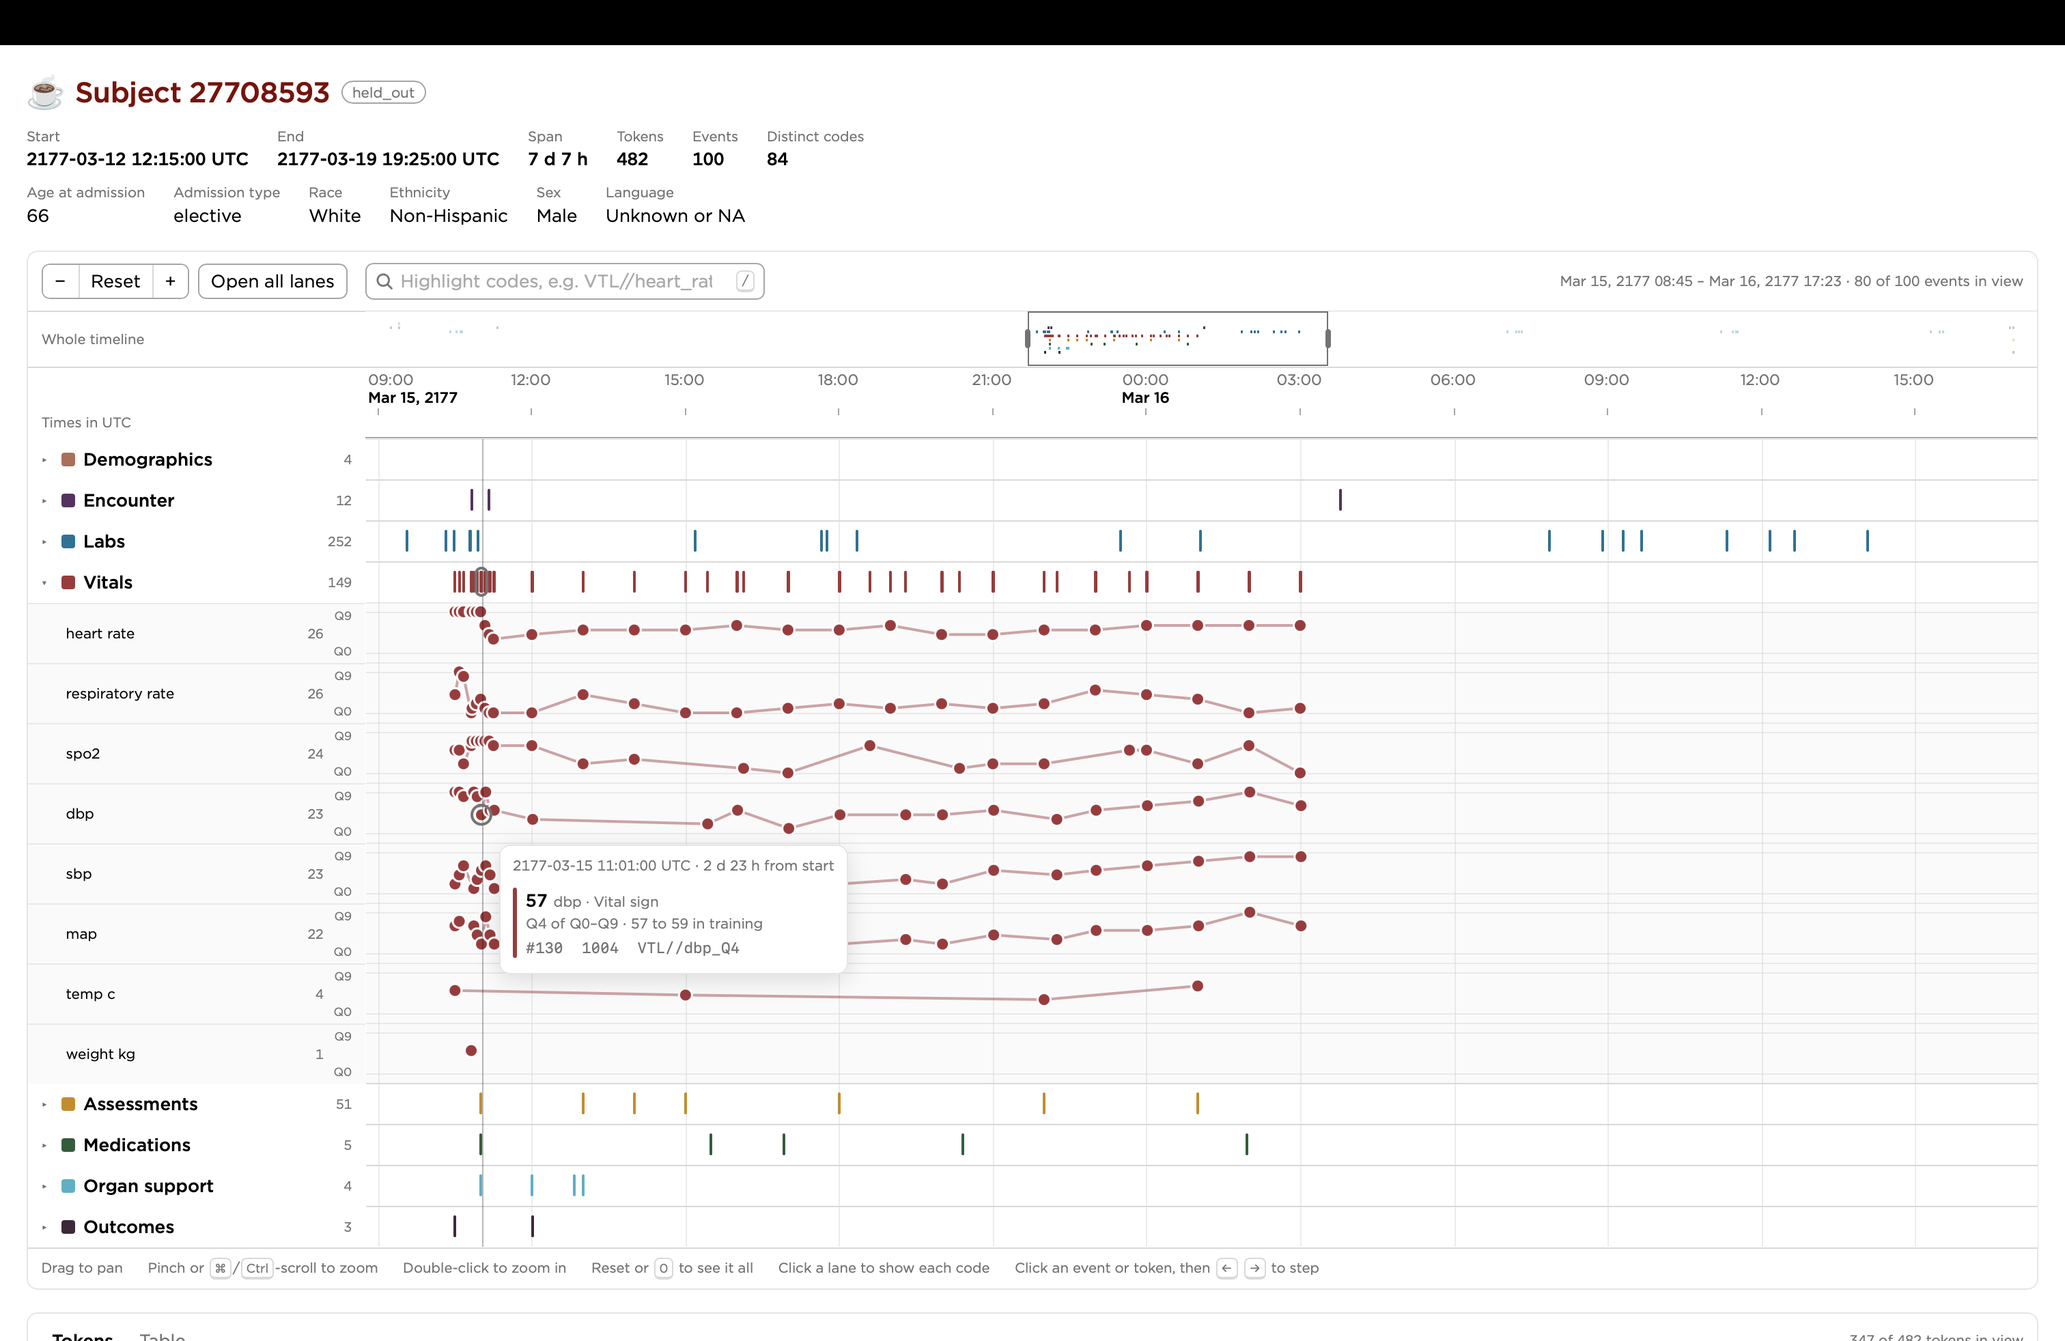
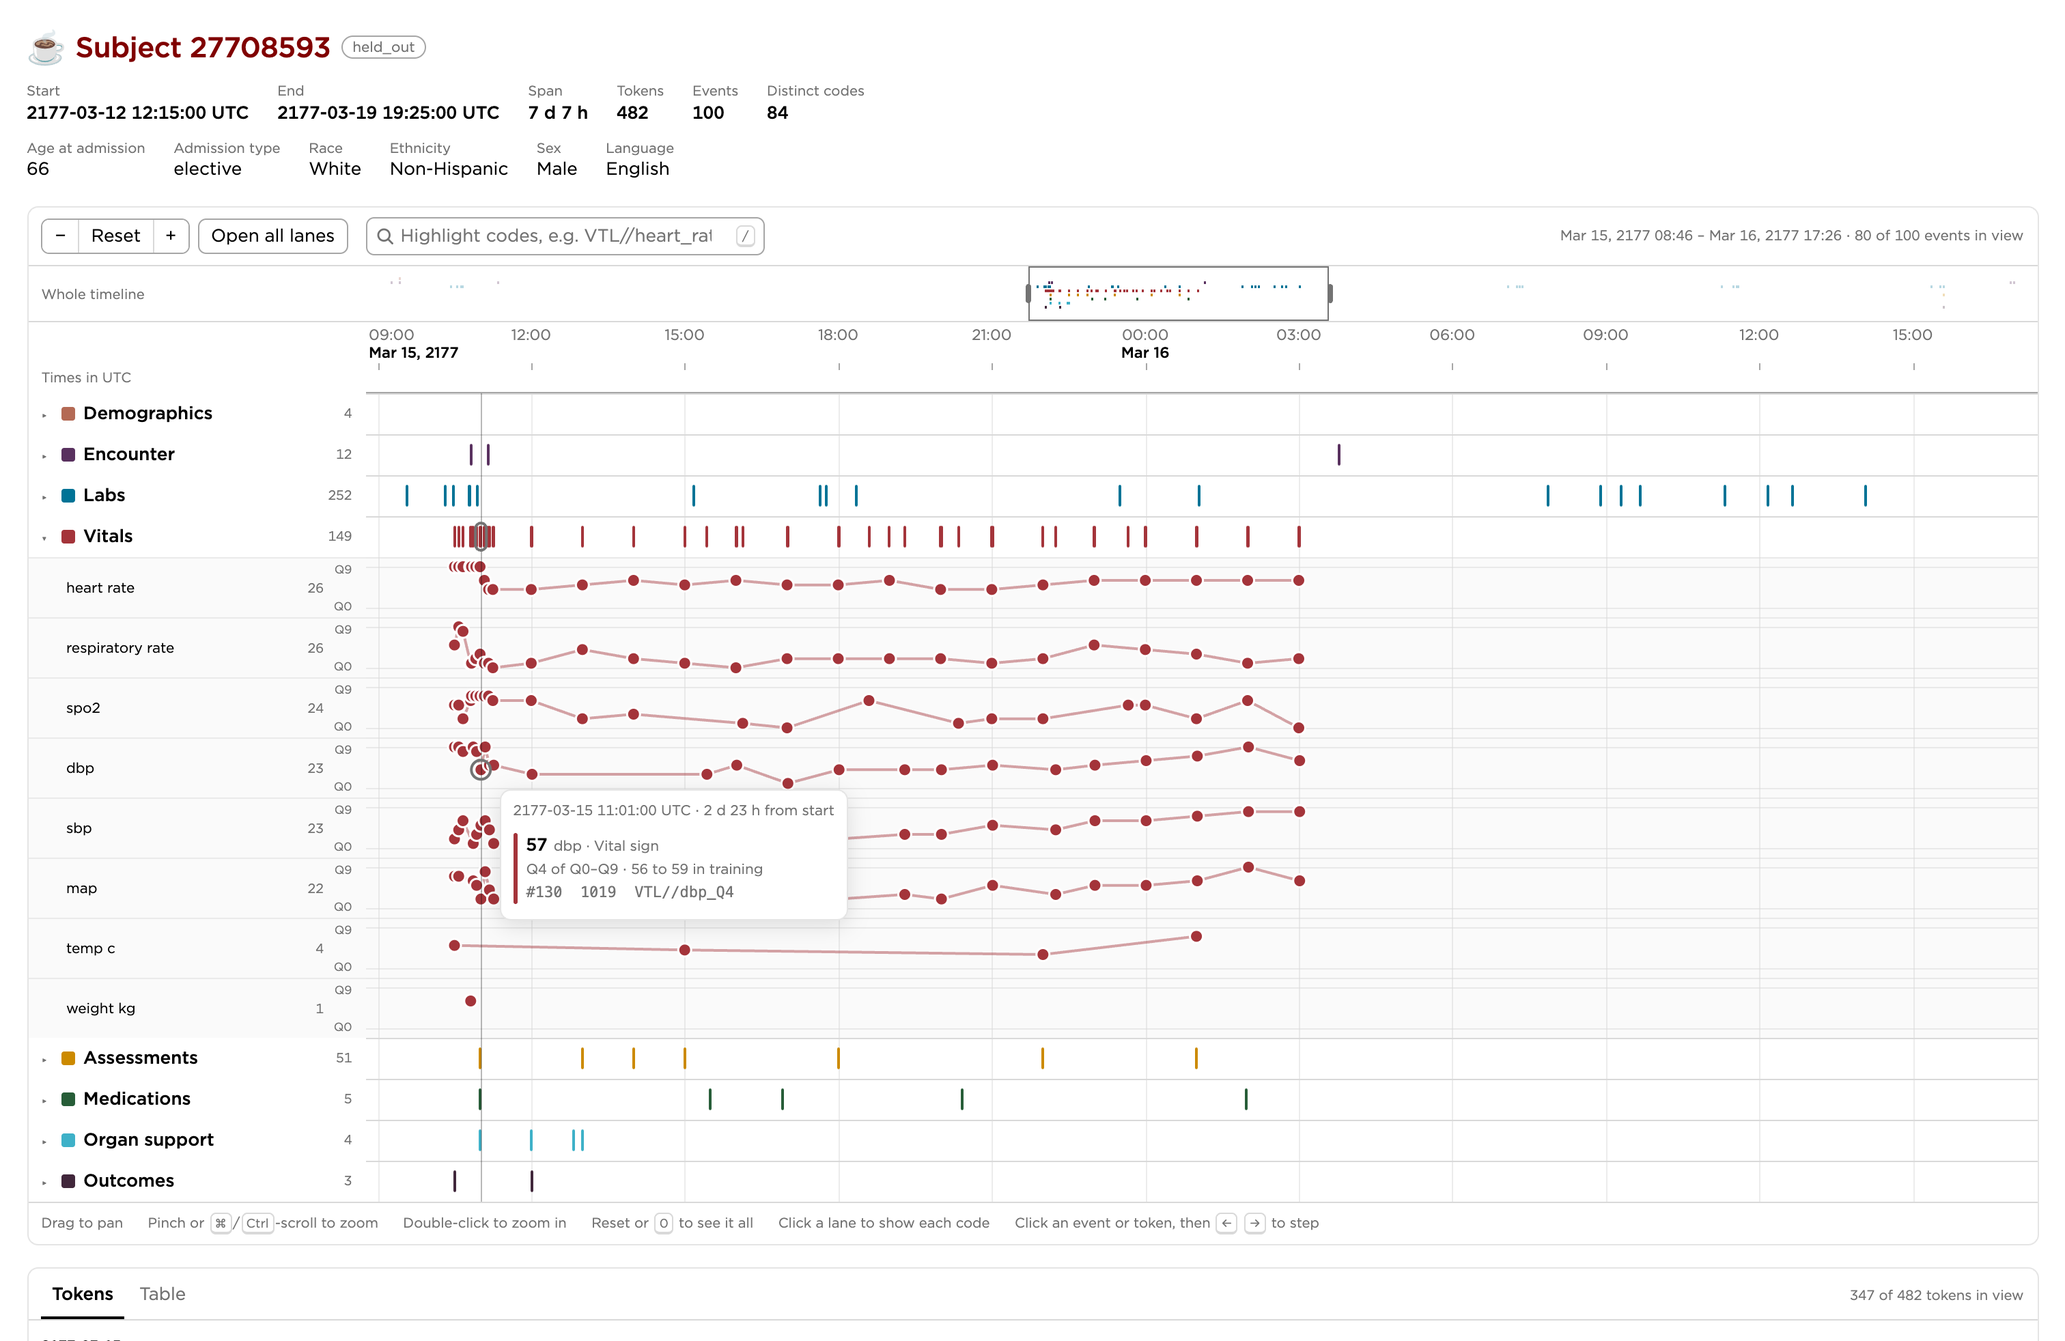
Update synthetic data

diff --git a/tests/test_collator.py b/tests/test_collator.py
@@ -1324,7 +1324,6 @@ def test_age_numeric_value_matches_the_raw_column(pipeline):
         ("SEX", "admission"),
         ("AGE", "admission"),
         ("ADMN", "admission"),
-        ("CODE", "admission"),
         ("DSCG", "discharge"),
     ],
 )
@@ -1339,6 +1338,24 @@ def test_static_event_occurs_once_per_subject_at_the_expected_instant(
     assert {s: t for s, t in zip(df["subject_id"], df["time"])} == {
         s: utc(t) for s, t in when.items()
     }
+
+
+def test_code_status_lands_on_the_stay_it_was_set_in(pipeline):
+    """
+    code_status is keyed by patient, so each status meets every stay of its
+    patient; timed by its own start_dttm, it stays on the one it was set in, at
+    that time, and one set before any stay is dropped
+    """
+    m = pipeline.manifest
+    code = pipeline.meds.filter(pl.col("code").str.starts_with("CODE//"))
+    assert sorted(code.select("subject_id", "time", "code").rows()) == sorted(
+        (s, utc(t), f"CODE//{c.lower()}") for s, (t, c) in m.code_status.items()
+    )
+    assert raw(m, "clif_code_status").height > len(m.code_status)
+    # a patient's stays differ in status, so a stray couldn't pass for its own
+    assert any(
+        len({m.code_status[s][1] for s in m.subjects_of[p]}) > 1 for p in m.patient_ids
+    )
 
 
 def test_dscg_expired_marks_exactly_the_expired_stays(pipeline):
@@ -1765,6 +1782,37 @@ def test_reference_key_window_compares_instants_across_a_dst_fall_back(runner):
     assert xtra["code"].to_list() == ["XTRA//inside"]
 
 
+def test_reference_key_entry_may_take_its_time_from_the_reference_frame(runner):
+    """
+    a `time` the table lacks comes from the reference frame, where the window
+    keeps every row: so the CODE entry released through 26.10.3, timed by
+    admission_dttm, puts every status of a patient on each of their stays, at
+    its admission
+    """
+    m = runner.raw
+    cfg = default_cfg("collation")
+    cfg["entries"] = shipped_entries("REFERENCE", "RACE") + [
+        {
+            "table": "clif_code_status",
+            "prefix": "CODE",
+            "code": "code_status_category",
+            "time": "admission_dttm",
+            "reference_key": "patient_id",
+        }
+    ]
+    dest = runner.dir()
+    runner.collate(cfg=cfg, dest=dest)
+    code = pl.read_parquet(dest / "meds.parquet").filter(
+        pl.col("code").str.starts_with("CODE//")
+    )
+    statuses = raw(m, "clif_code_status")
+    assert sorted(code.select("subject_id", "time", "code").rows()) == sorted(
+        (s, utc(m.admission[s]), f"CODE//{c.lower()}")
+        for p, c in zip(statuses["patient_id"], statuses["code_status_category"])
+        for s in m.subjects_of[p]
+    )
+
+
 @pytest.mark.parametrize("zone", ["UTC", "America/Chicago", "Asia/Tokyo"])
 def test_fix_date_to_time_moves_midnight_to_the_end_of_the_local_day(runner, zone):
     """the end of the day means the end of the day in `default_timezone`"""
@@ -1894,12 +1942,19 @@ def test_without_fix_date_to_time_a_date_stays_at_midnight(runner):
     assert collate_extra(runner, {**EXTRA, "time": "event_date"}).height == 0
 
 
-def test_reference_key_entry_before_any_reference_entry_raises(runner):
-    """get_entry joins the cached reference frame, which nothing has filled yet"""
+def test_reference_key_entry_needs_no_reference_entry_before_it(runner):
+    """its join builds the reference frame when no REFERENCE entry has yet"""
+    entry = {**EXTRA, "time": "event_dttm"}
     cfg = default_cfg("collation")
-    cfg["entries"] = [{**EXTRA, "time": "event_dttm"}]
-    with pytest.raises(TypeError, match="LazyFrame"):
-        runner.collate(cfg=cfg)
+    cfg["entries"] = [entry]
+    dest = runner.dir()
+    runner.collate(cfg=cfg, dest=dest)
+    alone = pl.read_parquet(dest / "meds.parquet")
+    after = collate_extra(runner, entry)  # behind a REFERENCE entry, as shipped
+    assert after.height > 0
+    assert alone.sort("subject_id", "time", "code").equals(
+        after.sort("subject_id", "time", "code")
+    )
 
 
 # --- slightly_safer_eval -----------------------------------------------------

diff --git a/tests/synth.py b/tests/synth.py
@@ -56,9 +56,13 @@ SCHEMAS = {
         "out_dttm": DTTM,
         "location_category": pl.String,
     },
-    # deliberately carries no time column: the CODE entry is configured with
-    # `reference_key`, so its time arrives from the reference frame
-    "clif_code_status": {"patient_id": pl.String, "code_status_category": pl.String},
+    # keyed by patient, as in clif: the CODE entry's `reference_key` joins each
+    # row to every stay of its patient, and its window keeps the stay it was set in
+    "clif_code_status": {
+        "patient_id": pl.String,
+        "start_dttm": DTTM,
+        "code_status_category": pl.String,
+    },
     "clif_crrt_therapy": {
         "hospitalization_id": pl.String,
         "recorded_dttm": DTTM,
@@ -158,6 +162,7 @@ class Manifest:
     admission: dict  # hospitalization_id -> naive utc admission datetime
     discharge: dict  # hospitalization_id -> naive utc discharge datetime
     los_hours: dict  # hospitalization_id -> length of stay in hours
+    code_status: dict  # hospitalization_id -> (naive utc time, category) set in it
     icu: frozenset  # hospitalizations with an XFR-IN//icu event
     imv: frozenset  # hospitalizations with a RESP//imv event
     prone: frozenset
@@ -233,7 +238,7 @@ def write_raw_dataset(
 
     rows = {t: [] for t in SCHEMAS}
     patient_ids, patient_of, subjects_of = [], {}, {}
-    admission, discharge, los_hours = {}, {}, {}
+    admission, discharge, los_hours, code_status = {}, {}, {}, {}
     (
         icu,
         imv,
@@ -260,12 +265,6 @@ def write_raw_dataset(
                 "ethnicity_category": ETHNICITIES[i % len(ETHNICITIES)],
                 "sex_category": SEXES[i % len(SEXES)],
                 "language_category": LANGUAGES[i % len(LANGUAGES)],
-            }
-        )
-        rows["clif_code_status"].append(
-            {
-                "patient_id": pid,
-                "code_status_category": ("Full" if i % 3 else "DNR/DNI"),
             }
         )
 
@@ -295,6 +294,18 @@ def write_raw_dataset(
                     "age_at_admission": _spread(v, 18, 95),
                     "admission_type_category": ADMIT_TYPES[v % len(ADMIT_TYPES)],
                     "discharge_category": dscg,
+                }
+            )
+
+            # --- code status, set an hour in; a second stay reverses the first's,
+            # so a status landing on the other stay of its patient would show
+            status = "Full" if bool(i % 3) != bool(j) else "DNR/DNI"
+            code_status[hid] = (a + HOUR, status)
+            rows["clif_code_status"].append(
+                {
+                    "patient_id": pid,
+                    "start_dttm": a + HOUR,
+                    "code_status_category": status,
                 }
             )
 
@@ -598,9 +609,18 @@ def write_raw_dataset(
                         }
                     )
 
+        # --- a code status set ten days before the first stay, so in none
+        first = f"H{i:04d}0"
+        rows["clif_code_status"].append(
+            {
+                "patient_id": pid,
+                "start_dttm": admission[first] - 10 * DAY,
+                "code_status_category": "DNR",
+            }
+        )
+
         # --- patient-level extra events: one inside the first stay, one well
         # before it; the date-only column exercises fix_date_to_time
-        first = f"H{i:04d}0"
         rows["clif_extra_events"].extend(
             [
                 {
@@ -643,6 +663,7 @@ def write_raw_dataset(
         admission=admission,
         discharge=discharge,
         los_hours=los_hours,
+        code_status=code_status,
         icu=frozenset(icu),
         imv=frozenset(imv),
         prone=frozenset(prone),

diff --git a/tests/test_tokenizer.py b/tests/test_tokenizer.py
@@ -496,12 +496,23 @@ def test_admission_tokens_are_ordered_by_prefix(timelines):
         "MED-CTS",
         "MED-INT",
         "LAB-ORD",
-        "CODE",
         "VTL",
         "ASMT",
         "RESP",
         "SOFA",
         "LABEL",
+    ]
+
+
+def test_tokens_an_hour_in_are_ordered_by_prefix(timelines):
+    """the first lab results, the code status, and a prone position"""
+    words, times = timelines["H00000"]
+    hour_in = times[0] + datetime.timedelta(hours=1)
+    at_hour_in = [w for w, t in zip(words, times) if t == hour_in]
+    assert [p for p, _ in itertools.groupby(map(prefix_of, at_hour_in))] == [
+        "LAB-RES",
+        "CODE",
+        "POSN",
     ]
 
 

diff --git a/src/cocoa/collator.py b/src/cocoa/collator.py
@@ -258,7 +258,9 @@ class Collator(Configurable):
             # a bare Datetime drops the timezone, putting all three columns on
             # the same wall clock (and the same unit) for the comparison
             naive = pl.Datetime(time_unit=self.time_unit)
-            df = df.join(self.reference_frame, on=reference_key, how="inner").filter(
+            df = df.join(
+                self.get_reference_frame(), on=reference_key, how="inner"
+            ).filter(
                 pl.col(time)
                 .cast(naive)
                 .is_between(

diff --git a/recipes/tokenizer-transfer.md b/recipes/tokenizer-transfer.md
@@ -74,7 +74,7 @@ CLIF tables.
     too rare in the earlier data to be learned tokenizes to `UNK`, the same as a
     code the earlier data never saw at all. The `counts` in `tokenizer.yaml`
     likewise stay as the earlier data recorded them. Here 589 of the later
-    timelines' 170,756 tokens, about 0.3%, are `UNK`, most of them codes that no
+    timelines' 170,506 tokens, about 0.3%, are `UNK`, most of them codes that no
     earlier training hospitalization had, such as the infusion
     `MED-CTS//octreotide` and the ventilator mode `RESP//pressure_control`.
 
@@ -98,11 +98,12 @@ CLIF tables.
       --output-data-dir processed/demo-combined
     ```
 
-    This writes the events, splits, timelines, and winnowed frames of all 310
-    hospitalizations to `processed/demo-combined`, with the earlier patients'
-    `tokenizer.yaml`. Each hospitalization keeps the split it was given, so the
-    combined dataset has 201 training, 27 tuning, and 82 held-out
-    hospitalizations, not the 208, 39, and 63 of the demo collated whole. It
-    warns of a `Configuration mismatch` between the two `tokenizer.yaml` files,
-    in `is_training` alone, since the later patients were tokenized by a frozen
-    copy; any other key would mean the halves were tokenized differently.
+    This writes the events, splits, and timelines of all 310 hospitalizations,
+    and the winnowed frames of the 280 that winnowing keeps, to
+    `processed/demo-combined`, with the earlier patients' `tokenizer.yaml`. Each
+    hospitalization keeps the split it was given, so the combined dataset has 201
+    training, 27 tuning, and 82 held-out hospitalizations, not the 208, 39, and
+    63 of the demo collated whole. It warns of a `Configuration mismatch` between
+    the two `tokenizer.yaml` files, in `is_training` alone, since the later
+    patients were tokenized by a frozen copy; any other key would mean the halves
+    were tokenized differently.

diff --git a/README.md b/README.md
@@ -308,7 +308,7 @@ lookahead windows still see every row of the reference frame.
     - table: clif_code_status
       prefix: CODE
       code: code_status_category
-      time: admission_dttm
+      time: start_dttm
       reference_key: patient_id
     ```
 
@@ -580,7 +580,7 @@ after the same time:
   recorded before the start time land in the past.
 
 The two cut a timeline at the same point only if it opens at its start time. With
-the shipped collation config, which times its `REFERENCE` entries at
+the shipped collation config, which times its demographic `REFERENCE` entries at
 `admission_dttm`, no timeline opens after its admission, but many open before it:
 on the demo, 236 of the 310 timelines do, by as much as a day, 213 of them with
 an arrival in the emergency department (`XFR-IN//ed`). Held-out hospitalization
@@ -779,7 +779,7 @@ config keys from the command line, see
 ```
  Usage: cocoa [OPTIONS] COMMAND [ARGS]...
 
- Configurable collation and tokenization (v26.10.1)
+ Configurable collation and tokenization (v26.10.3)
 
 ╭─ Options ───────────────────────────────────────────────────────────────╮
 │ --install-completion            Install completion for the current      │
@@ -1131,7 +1131,8 @@ get started, see the
     I. Lee, L. Solo, M. Burkhart, B. Ramadan, W. Parker, & B. Beaulieu-Jones,
     Representation before training: a fixed-budget benchmark for generative
     medical event models,
-    [arXiv:2604.16775](https://doi.org/10.48550/arXiv.2604.16775)
+    [arXiv:2604.16775](https://doi.org/10.48550/arXiv.2604.16775), _to appear in
+    ML4H 2026_
 
 [^5]:
     M. Burkhart, L. Solo, I. Lee, S. Charles, Z. Liao, K. Chhikara, D. Therese,

diff --git a/recipes/mimic-iv-demo.md b/recipes/mimic-iv-demo.md
@@ -90,7 +90,7 @@ the later steps read from:
 cocoa collate -r data-raw/demo -p processed/demo --verbose
 ```
 
-This writes `processed/demo/meds.parquet`, the 297,060 events of the 310
+This writes `processed/demo/meds.parquet`, the 296,528 events of the 310
 hospitalizations, a row each with its `subject_id`, `time`, `code` (such as
 `LAB-RES//sodium`), and any value; the shipped config makes each hospitalization
 a subject (`subject_id: hospitalization_id`). It also writes
@@ -126,7 +126,7 @@ decile of its value appended when it has one, as in `LAB-RES//sodium_Q5`. It
 writes `processed/demo/tokenizer.yaml`, the vocabulary and bin edges, and
 `processed/demo/tokens_times.parquet`, a row for each hospitalization holding its
 tokens, from `BOS` to `EOS`, and their times. `--verbose` prints the timelines'
-lengths, from 10 tokens to 11,614, half of them shorter than 311, and a few
+lengths, from 10 tokens to 11,614, half of them shorter than 309, and a few
 timelines token by token, and ends with:
 
 ```
@@ -176,7 +176,7 @@ Hospitalization 27708593 is the earliest admission in the held-out split, a
 week-long elective neurosurgical stay with 17 hours in the surgical ICU. The page
 draws its events in lanes by kind:
 
-<img src="https://raw.githubusercontent.com/burkh4rt/cocoa/master/img/vis-screenshot.png" alt="timeline of training hospitalization 21759936, with the labs at one time listed" width="700"/>
+<img src="https://raw.githubusercontent.com/burkh4rt/cocoa/master/img/vis-screenshot.png" alt="timeline of held-out hospitalization 27708593, with its first tokens listed" width="700"/>
 
 Lanes can be displayed interactively:
 

diff --git a/recipes/date-based-generative-inference.md b/recipes/date-based-generative-inference.md
@@ -1,6 +1,6 @@
 ## Date-based generative inference
 
-To prepare data for inference at first midnight after admission (here on the
+To prepare data for inference at each timeline's first midnight (here on the
 [MIMIC-IV demo](mimic-iv-demo.md), from its working directory),
 
 1. In your tokenization config (e.g. `tokenization.yaml`, a copy of the shipped
@@ -20,8 +20,8 @@ To prepare data for inference at first midnight after admission (here on the
     zone on standard time all year, as the demo's conversion to UTC did, so
     `CLCK//00` falls at midnight as MIMIC-IV records it.)
 
-2. In your winnowing config (e.g. `winnowing.yaml`), threshold at the first
-   occurrence of `CLCK//00`:
+2. In your winnowing config (e.g. `winnowing.yaml`, a copy of the shipped one),
+   threshold at the first occurrence of `CLCK//00`, in place of its `duration_s`:
 
     ```yaml
     threshold:
@@ -44,4 +44,7 @@ To prepare data for inference at first midnight after admission (here on the
     training hospitalizations, 38 of the 39 tuning, and 62 of the 63 held out.
     The held-out one left out, 22380825, is a five-hour stay. Hospitalization
     27708593, admitted at 07:15, is cut at midnight that night, before its
-    transfer to the ICU and its first tachycardia.
+    transfer to the ICU and its first tachycardia. Some are cut before they are
+    admitted: 52 of the 302 kept open with an arrival in the emergency department
+    the day before their admission, so their pasts end at the midnight before it,
+    without the age, sex, and other tokens timed at admission.

diff --git a/recipes/configure-new-token.md b/recipes/configure-new-token.md
@@ -28,9 +28,9 @@ derives with clifpy in step 1 of the [MIMIC-IV demo](mimic-iv-demo.md):
 `med_dose_unit` -- they will be ignored unless included in the configuration.)
 
 For each `hospitalization_id`, you want to insert tokens corresponding to
-`med_category` with respective `med_dose_converted` (after preprocessing,
-`med_dose_unit_converted` is unique within each `med_category`.) However, you
-only want to include these tokens if the medication was actually administered
+`med_category` with respective `med_dose_converted` (where clifpy converted the
+dose, `med_dose_unit_converted` is unique within each `med_category`). However,
+you only want to include these tokens if the medication was actually administered
 `pl.col("mar_action_category") == "given"` and the conversion during
 preprocessing completed successfully (`pl.col("_convert_status") == "success"`).
 

diff --git a/recipes/README.md b/recipes/README.md
@@ -2,5 +2,5 @@ You want to:
 
 - [run the whole pipeline end to end on public data (the MIMIC-IV demo)](mimic-iv-demo.md)
 - [learn a tokenizer on one dataset and apply it to a second dataset](tokenizer-transfer.md)
-- [prep data for inference at midnight after the first admission](date-based-generative-inference.md)
+- [prep data for inference at each timeline's first midnight](date-based-generative-inference.md)
 - [configure a new event token](configure-new-token.md)
